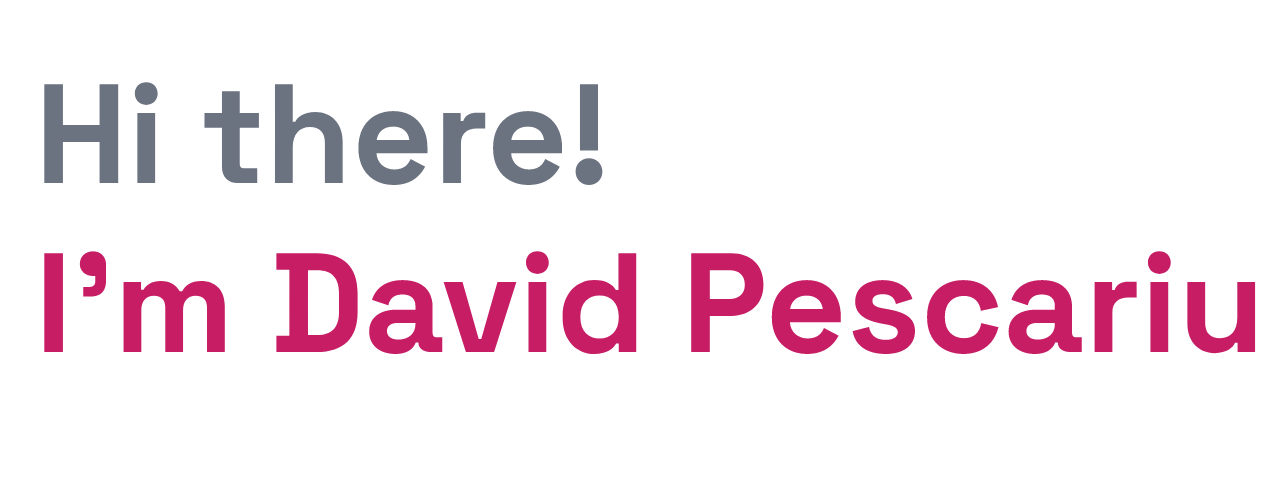
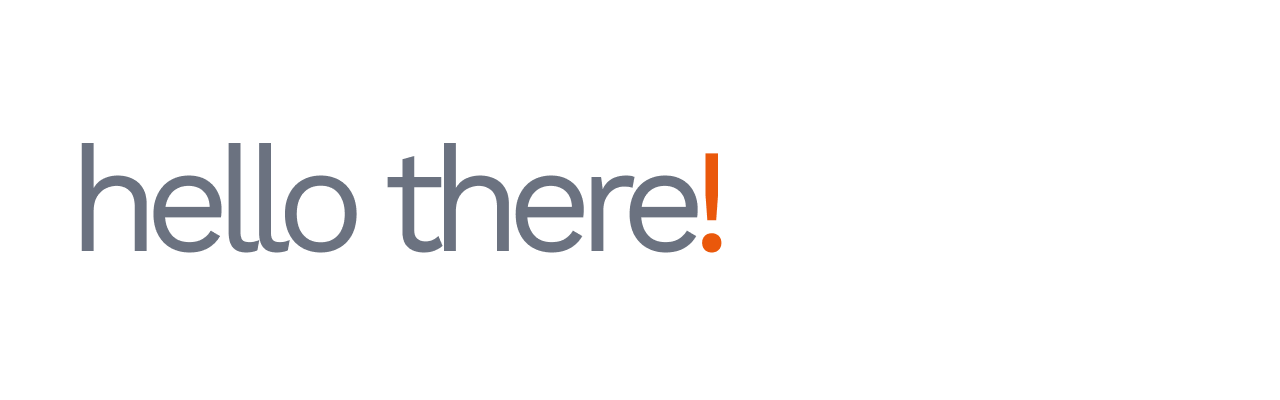
refresh sep '24

Changed region(s): [[0.0312, 0.15, 1.0, 0.72]]

diff --git a/README.md b/README.md
@@ -1,28 +1,7 @@
 <!--
-    If you are reading this it means you either hate the readme or love it...
-    Either way, hi :)
-
-    Also you might want to see davidpescariu.com
-
-    -=-=-=-
-    Archive :))
-    - 🛠 Working to make Prisma - _Making the world a safer place_ a reality
+    hi :)
 -->
 
 <a href="https://github.com/davidp-ro">
-    <img src="https://github.com/davidp-ro/davidp-ro/blob/master/assets/Header.png" alt="Header Image"/>
+    <img src="https://github.com/davidp-ro/davidp-ro/blob/master/assets/header.png" alt="Header Image"/>
 </a>
-
-### About me
-
-- 🏫 Student @ TUCN - Electronics & Telecommunications Eng.
-- 👨🏻💻 Passionate about development in general _(can you tell I like Svelte?)_
-- 🫶 I also volunteer @ <a href="https://dpit.ro/" target="_blank">Asociatia DPIT</a>
-
-<h3 align=center>
-    <a href="https://davidpescariu.com" target="_blank">View Portfolio</a>
-    &times;
-    <a href="https://davidpescariu.com/David%20Pescariu%20-%20Resume.pdf" target="_blank">Résumé</a>
-    &times;
-    <a href="https://www.prisma-safety.com/" target="_blank">Check out Prisma</a>
-</h3>
